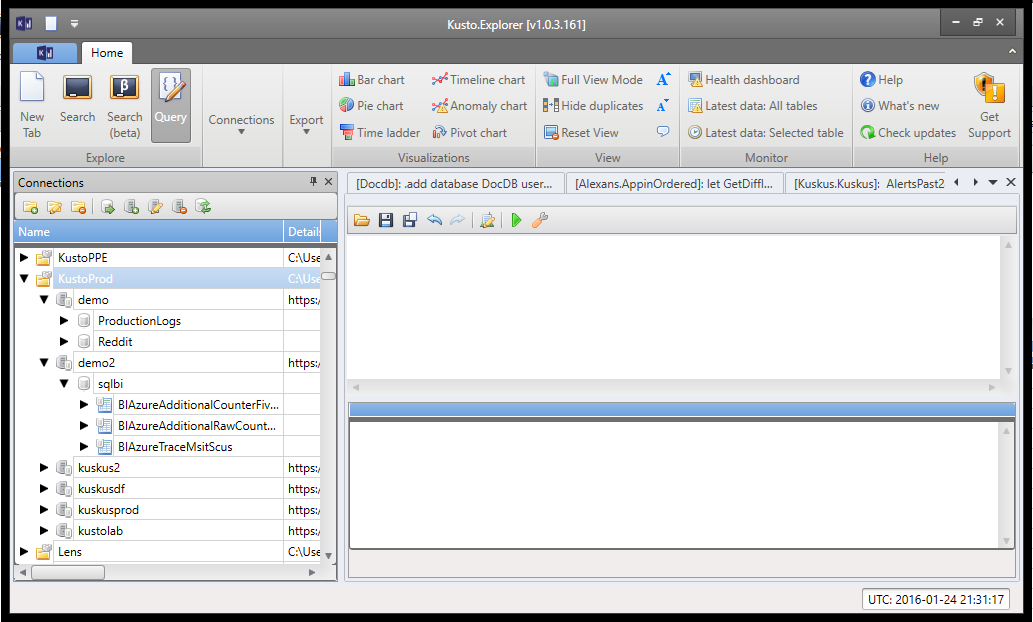
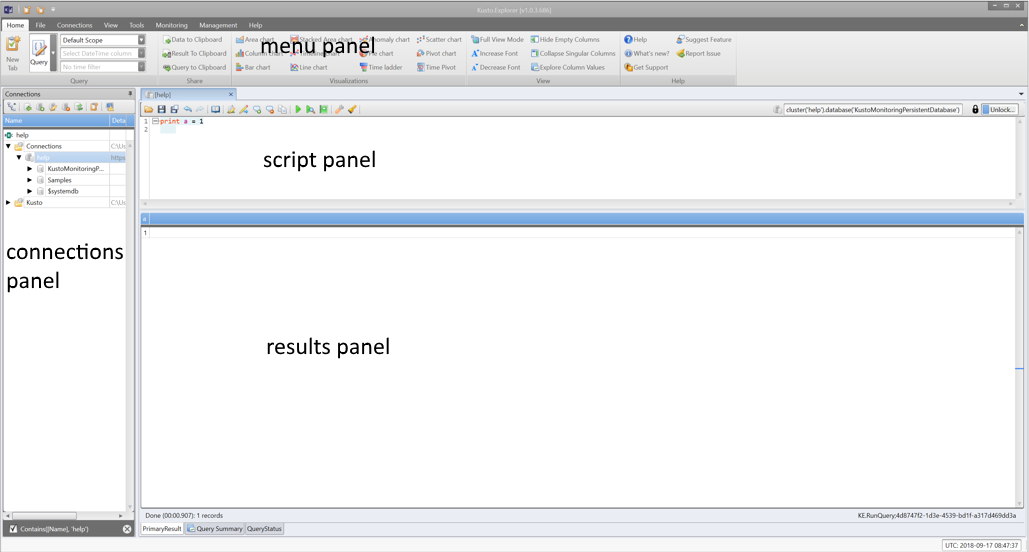
Automatic sync from Kusto source control

diff --git a/data-explorer/kusto/tools/kusto-explorer.md b/data-explorer/kusto/tools/kusto-explorer.md
@@ -42,92 +42,69 @@ If you are using Chrome as your default browser - make sure to install the Click
 
 Kusto Explorer window has several UI parts:
 
-1. Menu options - for details look at [ribbon menus](#ribbon-menus)
-2. Connections Panel - for details look at [connections](#connections-panel)
-3. Script window
-4. Results window
-5. Check the [list of hot-keys (shortcuts)](kusto-explorer-shortcuts.md) for truely mastering Kusto.Explorer
+1. [Menu panel](#menu-panel)
+2. [Connections panel](#connections-panel)
+3. Script panel
+4. Results panel
+
+* Check the [list of hot-keys (shortcuts)](kusto-explorer-shortcuts.md) for truely mastering Kusto.Explorer
 
 ![Kusto.Explorer startup](./Images/KustoTools-KustoExplorer/ke-start.png "ke-start")
 
-### Ribbon menus
+### Menu Panel
 
-Kusto.Explorer menu has several areas:
+Kusto.Explorer Menu panel has several tabs:
 
-* [Query Explore Menu](#explore-menu)
-* [Kusto Connections Menu](#connections-menu)
-* [Data Export Menu](#export-menu)
-* [Data Save Menu](#save-data-menu)
-* [Data Load Menu](#load-data-menu)
-* [Data Visualization Menu](#visualizations-menu)
-* [Data View  Menu](#view-menu)
+* [Home](#home-tab)
+* [File](#file-tab)
+* [Connections](#connections-tab)
+* [View](#view-tab)
+* [Tools](#tools-tab)
 
-* [Management Menu](#management-menu)
-* [Help Menu](#help-menu)
+* [Management](#management-tab)
+* [Help](#help-tab)
 
-### Explore Menu
+### Home Tab
 
-![Kusto.Explorer explore tab](./Images/KustoTools-KustoExplorer/menu-explore.png "menu-explore")
+![Kusto.Explorer Home](./Images/KustoTools-KustoExplorer/home-tab.png "home-tab")
 
-|Menu|	Behavior|
-|----|----------|
-|New Tab Window|Opens a new tab window for querying Kusto |
-|Search|Single query mode: each command being entered is processed immediately and presents a result in the Result Window|
-|Search (beta)|Allows searching for a term using Search syntax across one or more tables. See more at using [Search Beta Mode](kusto-explorer.md#search-beta-mode)|
-|Query |Switches Query Window into a script mode: commands can be loaded and saved as scripts.|
+Home Tab accumulates most recently used functionality, splitted by menus:
 
-### Connections Menu
+* [Query](#query-menu)
+* [Share](#share-menu)
+* [Visualizations](#visualizations-menu)
+* [View](#view-menu)
+* [Help](#help-tab)
 
-![Kusto.Explorer connections tab](./Images/KustoTools-KustoExplorer/menu-connections.png "menu-connections")
+#### Query Menu
 
-|Menu|Behavior|
-|----|----------|
-|Add group|Adds a new Kusto Server group| 
-|Rename group|Renames the existing Kusto Server group|
-|Remove group|Removes the existing  Kusto Server group|
-|Import connections|Imports connections from a file specifying connections|
-|Add connection|Adds a new Kusto Server connection| 
-|Edit connection|Opens a dialog for Kusto Server connection properties editing|
-|Remove connection|Removes the existing connection to Kusto Server|
-|Refresh|Refreshes properties of Kusto server connection|
-
-### Export Menu
-
-![Kusto.Explorer export tab](./Images/KustoTools-KustoExplorer/menu-export.png "menu-export")
+![Kusto.Explorer query menu](./Images/KustoTools-KustoExplorer/home-query-menu.png "query-menu")
 
 |Menu|	Behavior|
 |----|----------|
-|To CSV|	Exports data to CSV (comma-separated-values) file| 
-|To Excel|	Exports data to XLSX (Excel) file|
-|To Text|	Exports data to TXT (text) file| 
+|New Tab Window| Opens a new tab window for querying Kusto |
+|Mode: Query | Switches Query Window into a [script mode](#query-mode): commands can be loaded and saved as scripts (default)|
+|Mode: Search| Single query mode: each command being entered is processed immediately and presents a result in the Result Window|
+|Mode: Search (beta)|Allows searching for a term using Search syntax across one or more tables. See more at using [Search Beta Mode](kusto-explorer.md#search-beta-mode)|
+|Caching scope: Hot Data| Execute queries only on [hot data cache](../concepts/cachepolicy.md)|
+|Caching scope: All Data| Execute queries on all available data (default)|
+|DateTime Column| Name of column which may be used for time pre-filter|
+|Time Filter| Value of time pre-filter|
+
+#### Share Menu
+
+![Kusto.Explorer share menu](./Images/KustoTools-KustoExplorer/home-share-menu.png "share-menu")
+
+|Menu|	Behavior|
+|----|----------|
 |Data To Clipboard|	Exports Query and data set to a clipboard. In case chart is presented - exports the chart as bitmap| 
-|Query to Power BI|	Exports Kusto query in format of PowerBI M-Language query |
+|Result To Clipboard| Exports data set to a clipboard. In case chart is presented - exports the chart as bitmap| 
 |Query to Clipboard| Exports Query to clipboard|
 
-### Save Data Menu
+#### Visualizations Menu
 
-![alt text](./Images/KustoTools-KustoExplorer/menu-savedata.png "menu-savedata")
-
-|Menu         |	Behavior|
-|-------------|----------|
-|To CSV       | Exports data to CSV (comma-separated-values) file| 
-|To JSON      | Exports data to JSON formatted file|
-|To Excel     | Exports data to XLSX (Excel) file|
-|To Text      |	Exports data to TXT (text) file| 
-|To CSL Script|	Exports Query to a script file| 
-|To Results   |	Exports Query and data to Results (QRES) file| 
-
-### Load Data Menu
-
-![alt text](./Images/KustoTools-KustoExplorer/menu-loaddata.png "menu-loaddata")
-
-|Menu|	Behavior|
-|----|----------|
-|From Results|	Loads Query and data from Results (QRES) file| 
-
-### Visualizations Menu
-
-![alt text](./Images/KustoTools-KustoExplorer/menu-visualizations.png "menu-visualizations")
+![alt text](./Images/KustoTools-KustoExplorer/home-visualizations-menu
+.png "menu-visualizations")
 
 |Menu         | Behavior|
 |-------------|---------|
@@ -150,18 +127,18 @@ The algorithm is expecting time series data which consists of 2 columns:
 2. Numeric value for anomaly detection
 To produce that in Kusto.Explorer, you should summarize by the time field and specify the time bucket bin.
 
-### View Menu
+#### View Menu
 
-![alt text](./Images/KustoTools-KustoExplorer/menu-view.png "menu-view")
+![alt text](./Images/KustoTools-KustoExplorer/home-view-menu.png "view-menu")
 
 |Menu           | Behavior|
 |---------------|---------|
 |Full View Mode | Maximizes the work space by hiding ribbon menu and Connection Panel|
 |Increase Font  | Increases fonts of the query tab and of the results data grid|  
 |Decrease Font  | Decreases fonts of the query tab and of the results data grid| 
-|Reset View     | Resets data view settings (*)|
-|Hide Duplicates| Removes duplicate results from the data grid|
-|Hide Empty Columns| Removes empty columns from the data grid |
+|Hide Empty Columns| Removes empty columns from the data grid|
+|Collapse Singular Columns| Collapses columns with singular value|
+|Explore Column Values| Shows column values distribution|
 
 (*) Data View Settings:
 Kusto.Explorer keeps track of what settings are used per unique set of the columns, 
@@ -169,25 +146,114 @@ so when columns are reordered/removed - the data view is saved and will be reuse
 whenever the data with the same columns is retrieved. To reset the view to its defaults,
 use `Reset View` menu item. 
 
+### File Tab
+
+![Kusto.Explorer File](./Images/KustoTools-KustoExplorer/file-tab.png "file-tab")
+
+|Menu| Behavior|
+|---------------|---------|
+||---------*Query Srcipt*---------|
+|New Tab Window| Opens a new tab window for querying Kusto |
+|Open File| Loads data from provided *.csl file to active script panel|
+|Save To File| Saves content of active script panel to *.csl file|
+|Query Srcipt|Close Tab| Closes current tab window|
+||---------*Save Data*---------|
+|To CSV       | Exports data to CSV (comma-separated-values) file| 
+|To JSON      | Exports data to JSON formatted file|
+|To Excel     | Exports data to XLSX (Excel) file|
+|To Text      |	Exports data to TXT (text) file| 
+|To CSL Script|	Exports Query to a script file| 
+|To Results   |	Exports Query and data to Results (QRES) file|
+||---------*Load Data*---------|
+|From Results|	Loads Query and data from Results (QRES) file| 
+||---------*Clipboard*---------|
+|Data To Clipboard|	Exports Query and data set to a clipboard. In case chart is presented - exports the chart as bitmap| 
+|Result To Clipboard| Exports data set to a clipboard. In case chart is presented - exports the chart as bitmap| 
+|Query to Clipboard| Exports Query to clipboard|
+||---------*Results*---------|
+|Clear results cache| Clears cached results of previously executed queries| 
+
+### Connections Tab
+
+![Kusto.Explorer connections tab](./Images/KustoTools-KustoExplorer/connections-tab.png "connections-tab")
+
+|Menu|Behavior|
+|----|----------|
+||---------*Groups*---------|
+|Add gourp| Adds a new Kusto Server group| 
+|Rename group| Renames the existing Kusto Server group|
+|Remove group| Removes the existing  Kusto Server group|
+||---------*Clusters*---------|
+|Import connections| Imports connections from a file specifying connections|
+|Export connections| Exports connections to file|
+|Add connection| Adds a new Kusto Server connection| 
+|Edit connection| Opens a dialog for Kusto Server connection properties editing|
+|Remove connection| Removes the existing connection to Kusto Server|
+|Refresh| Refreshes properties of Kusto server connection|
+||---------*Identity Providers*---------|
+|Inspect Connection Principal| Shows currents active user details|
+|Sign-out From AAD| Signs-out current user from connection to AAD|
+
+### View Tab
+
+![view tab](./Images/KustoTools-KustoExplorer/view-tab.png "view-tab")
+
+|Menu|Behavior|
+|----|----------|
+||---------*Appearance*---------|
+|Full View Mode | Maximizes the work space by hiding ribbon menu and Connection Panel|
+|Increase Font  | Increases fonts of the query tab and of the results data grid|  
+|Decrease Font  | Decreases fonts of the query tab and of the results data grid|
+||---------*Data View*---------|
+|Reset View| Resets data view settings (*)|
+|Hide Duplicates| Removes duplicate results from the data grid|
+|Filter Rows in Search| Allows to filter rows during search in query result|
+|Hide Empty Columns| Removes empty columns from the data grid|
+|Collapse Singular Columns| Collapses columns with singular value|
+|Explore Column Values| Shows column values distribution|
+
+(*) Data View Settings: Kusto.Explorer keeps track of what settings are used per unique set of the columns, so when columns are reordered/removed - the data view is saved and will be reused whenever the data with the same columns is retrieved. To reset the view to its defaults, use Reset View menu item. 
+
+### Tools Tab
+
+![tools tab](./Images/KustoTools-KustoExplorer/tools-tab.png "tools-tab")
+
+|Menu|Behavior|
+|----|----------|
+||---------*IntelliSense*---------|
+|Enable IntelliSense| Enables/Disables IntelliSense on Script Panel)|
+||---------*Analyze*---------|
+|Query Analyzer| Launches Query Analyzer tool|
+|Calculator| Launches Calculator|
+||---------*Analytics*---------|
+|Analytical Reports| Opens dashboard with multiple pre-built reports for data analysis|
+||---------*Translate*---------|
+|Query to Power BI| Translates query to format suitable for using in Power BI|
+||---------*Options*---------|
+|Reset Options| Sets application settings to default values|
+|Options| Opens tool for application settings edit|
 
 
-### Management Menu
 
-![alt text](./Images/KustoTools-KustoExplorer/menu-management.png "menu-management")
+### Management Tab
+
+![management tab](./Images/KustoTools-KustoExplorer/management-tab.png "management-tab")
 
 |Menu             | Behavior|
 |-----------------|---------|
+||---------*Authorized Principals*---------|
 |Manage Cluster Authorized Principals | When in context of a cluster, enables managing its principals for authorized users| 
 |Manage Database Authorized Principals | When in context of a database, enables managing its principals for authorized users| 
 |Manage Table Authorized Principals | When in context of table, enables managing its principals for authorized users| 
 |Manage Function Authorized Principals | When in context of a function, enables managing its principals for authorized users| 
 
-### Help Menu
+### Help Tab
 
-![alt text](./Images/KustoTools-KustoExplorer/menu-help.png "menu-help")
+![help tab](./Images/KustoTools-KustoExplorer/help-tab.png "help-tab")
 
 |Menu             | Behavior|
 |-----------------|---------|
+||---------*Documentation*---------|
 |Help             | Opens a link to the Kusto online documentation  | 
 |What's new       | Opens a document that lists all Kusto.Explorer changes|
 |Get support      | Opens a link to the support-ticket web page | 
@@ -196,7 +262,7 @@ use `Reset View` menu item.
 
 ## Connections Panel
 
-![alt text](./Images/KustoTools-KustoExplorer/connectionsPanel.png "connectionsPanel") 
+![alt text](./Images/KustoTools-KustoExplorer/connectionsPanel.png "connections-panel") 
 
 The left pane of Kusto.Explorer shows all the cluster connections that the client
 is configured with, and for each cluster -- the databases, tables, and attributes (columns) 
@@ -299,7 +365,7 @@ Kusto.Explorer provides a convenient way to manage cluster, database, table or f
 Please note that only [admins](../management/access-control/role-based-authorization.md) can add or drop authorized principals in their own scope.
 
 1. Right-click on the target entity in the [Connections panel](#connections-panel), and select `Manage Authorized Principals`
-    (also available via the [Management Menu](#management-menu)).
+    (also available via the Management Menu).
 
     ![alt text](./Images/KustoTools-KustoExplorer/right-click-manage-authorized-principals.png "right-click-manage-authorized-principals")
 
@@ -359,7 +425,7 @@ Script editor also has IntelliSense for Query parameters that are already define
 ![alt text](./Images/KustoTools-KustoExplorer/parametrized-query-4.png "parametrized-query-4")
 
 There can be multiple "sets" of parameters (listed in Parameters Set combo box).
-Buttons, "Add new" and "Delete current" manipulate list of Parameters "sets".
+Buttons, "Add new" and "Delete current" manipulate list of Parameters "sets".
 
 ![alt text](./Images/KustoTools-KustoExplorer/parametrized-query-5.png "parametrized-query-5")
 

diff --git a/data-explorer/kusto/concepts/index.md b/data-explorer/kusto/concepts/index.md
@@ -14,15 +14,15 @@ ms.date: 09/24/2018
 Kusto is a service for storing and running interactive analytics
 over Big Data.
 
-It is modeled after relational database management systems, supporting entities
-such as databases, tables, and columns, as providing complex analytics
+It is based on relational database management systems, supporting entities
+such as databases, tables, and columns, as well as providing complex analytics
 query operators (such as calculated columns, searching and filtering or rows,
-group by-aggregates, joins, and many others).
+group by-aggregates, joins).
 
 Kusto offers excellent data ingestion and query performance by "sacrificing"
 the ability to perform in-place updates of individual rows and cross-table
-constraints/transactions. Therefore, is supplants, rather than replaces,
-traditional RDBMS systems for scenarios such as OLTP and date warehousing.
+constraints/transactions. Therefore, it supplants, rather than replaces,
+traditional RDBMS systems for scenarios such as OLTP and data warehousing.
 
 As a Big Data service, Kusto handles structured, semi-structured (e.g. JSON-like
 nested types), and unstructured (free-text) data equally well.

diff --git a/data-explorer/kusto/management/index.md b/data-explorer/kusto/management/index.md
@@ -51,10 +51,10 @@ part of the text (they can't precede the command itself).
 
 **AdminThenQuery** is indicated in one of two ways:
 
-1. By using a pipe (`|`) character, which then has the query treat the results of the
+1. By using a pipe (`|`) character, the query therefore treats the results of the
    control command as if it were any other data-producing query operator.
 2. By using a semicolon (`;`) character, which then introduces the results of the
-   control command into a special symbol called `$command_results` that one may then
+   control command into a special symbol called `$command_results`, that one may then
    use in the query any number of times.
 
 For example:

diff --git a/data-explorer/kusto/query/toc.md b/data-explorer/kusto/query/toc.md
@@ -166,7 +166,7 @@
 ## [dayofyear()](dayofyearfunction.md)
 ## [dcount_hll()](dcount-hllfunction.md)
 ## [degrees()](degreesfunction.md)
-## [distance()](distancefunction.md)
+
 ## [endofday()](endofdayfunction.md)
 ## [endofmonth()](endofmonthfunction.md)
 ## [endofweek()](endofweekfunction.md)
@@ -227,7 +227,7 @@
 ## [percentile_tdigest()](percentile-tdigestfunction.md)
 ## [percentrank_tdigest()](percentrank-tdigestfunction.md)
 ## [pi()](pifunction.md)
-## [point()](pointfunction.md)
+
 ## [pow()](powfunction.md)
 ## [radians()](radiansfunction.md)
 ## [rand()](randfunction.md)
